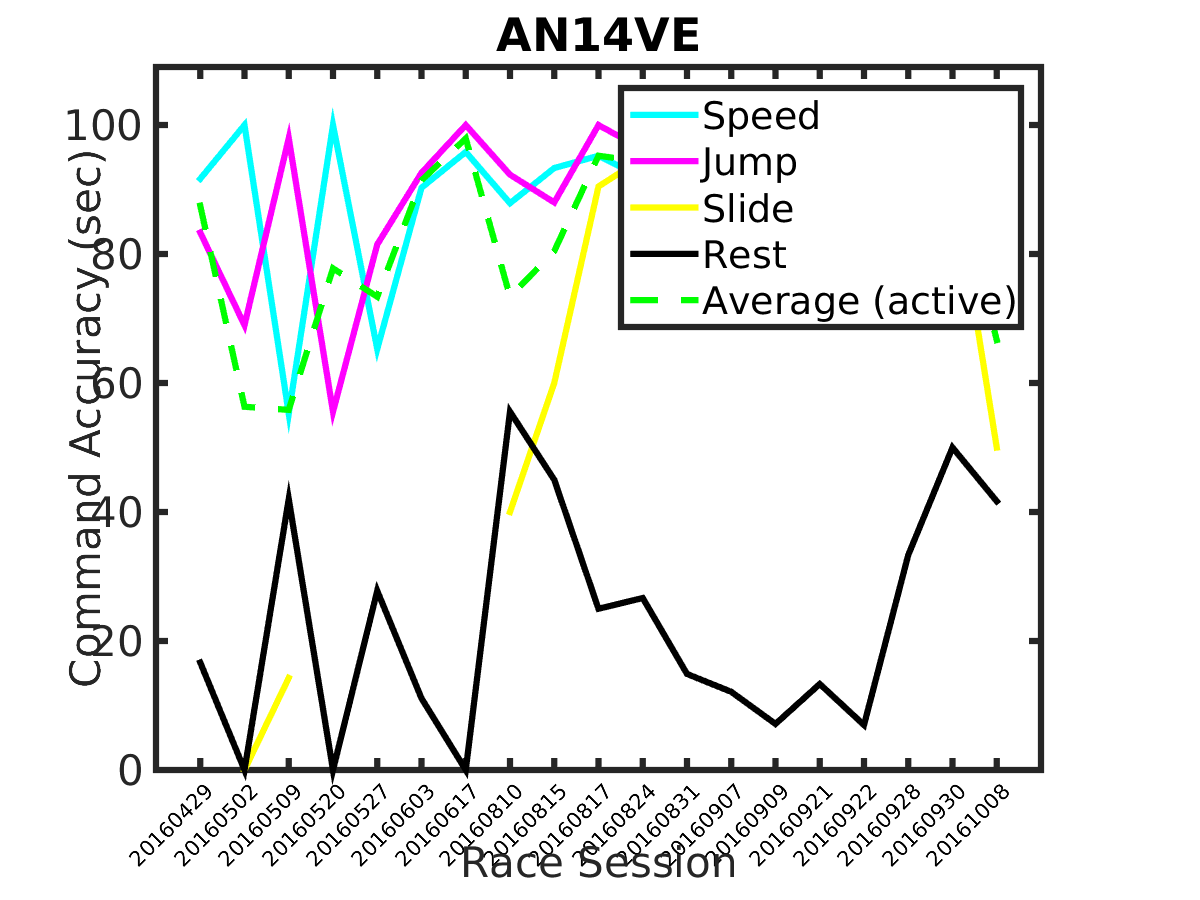
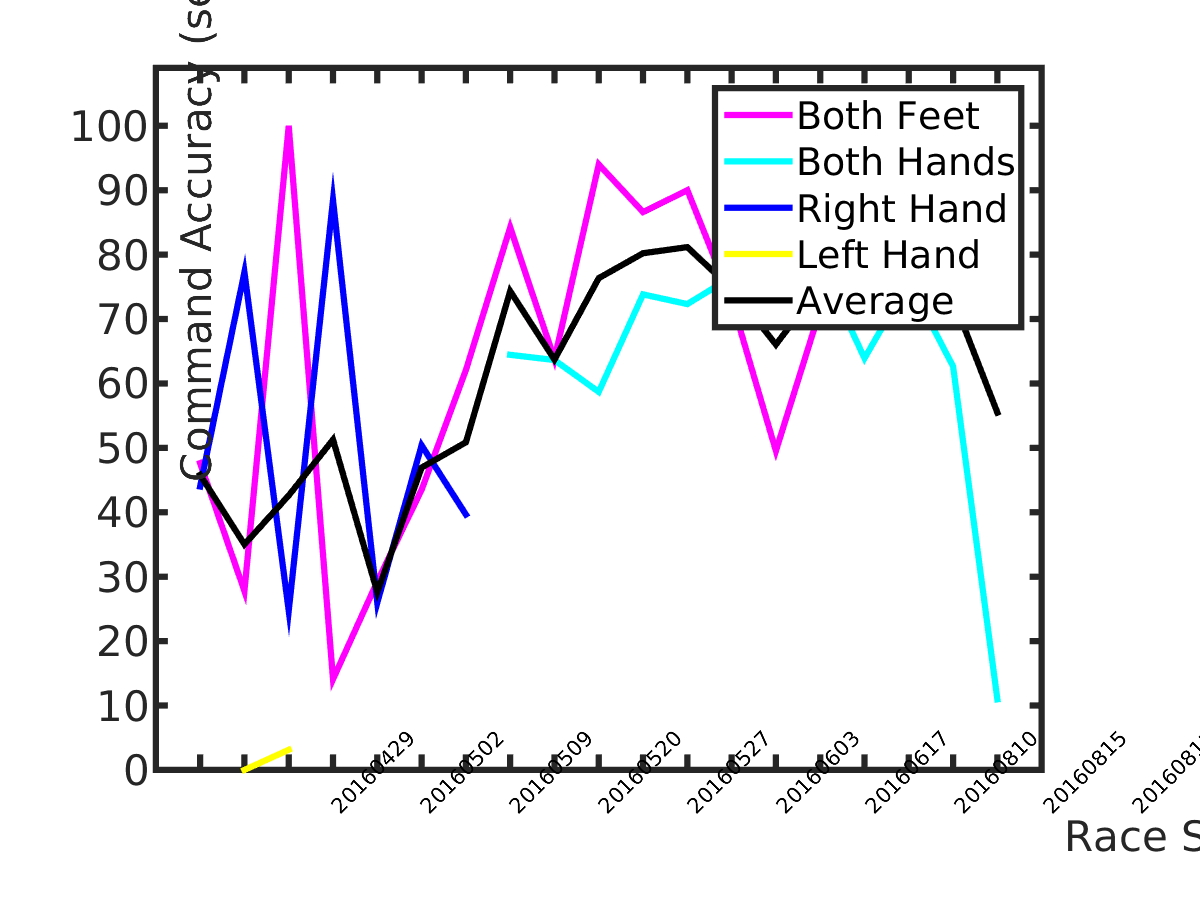
Simis finished command accuracy (at last)

diff --git a/modules/cnbicyb_commacc_race.m b/modules/cnbicyb_commacc_race.m
@@ -78,48 +78,92 @@ RealComm = CommRL;
 % Case of protocol 5 (mi_cybathlon2), where slide is essentially rest
 IndPad786Prot5 = intersect(find(CommProt==5), find(CommGT==768));
 RealGT(IndPad786Prot5) = 783;
-RealComm(IndPad786Prot5) = 783+hex2dec('6000');
+RealComm(IndPad786Prot5(find(RealComm(IndPad786Prot5)==25344))) = 783+hex2dec('6000');
 
-% Case of protocol 6 (mi_cybathlon3/controller)
 
+% Case of protocol 6 (mi_cybathlon3/controller), where reverse + timeout
+% sends a command
+IndRealComm = find(RealComm~=0);
+Prot = [];
+GT = [];
+PossibleClasses = [771 773];
+for tr=1:length(events.extra.pad.TYP)
+    Prot = events.extra.protocol.TYP(floor((tr-1)/18)+1);
+    BiasedClass = mode(RealComm(IndRealComm(intersect(find(IndRealComm >= events.extra.race.POS(floor((tr-1)/18)+1)),...
+            find(IndRealComm < events.extra.race.POS(floor((tr-1)/18)+1) + ...
+            events.extra.race.DUR(floor((tr-1)/18)+1))))))-hex2dec('6000');
+    BiasClassInd = find(PossibleClasses==BiasedClass);
+    GT = events.extra.pad.TYP(tr);
+    BeginPad = events.extra.pad.POS(tr);
+    if( (Prot==6) && (GT==768) )
+        % Find the indices of commands inside there
+        CommIndInTrial = intersect(find(IndRealComm >= events.extra.pad.POS(tr)),...
+            find(IndRealComm < events.extra.pad.POS(tr) + events.extra.pad.DUR(tr)));
+        if(isempty(CommIndInTrial))
+            continue;
+        end
+        
+        % Find time since immediately previous command
+        TimeFromPrevious = (BeginPad-IndRealComm(CommIndInTrial(1)-1))*0.0625;
+        TypePrevious = RealComm(IndRealComm(CommIndInTrial(1)-1));
+        PreviousInd = find(PossibleClasses==BiasedClass);
+        
+        if(TimeFromPrevious <= 3.0)
+            % If small amount of time has elapsed since the last command
+            % when the pad starts, we can almost safely assume that he was
+            % trying to reach the inverse, so that he can slide.
+            PredictedInd = 3-PreviousInd;
+            PredictedType = PossibleClasses(PredictedInd);
+        else
+            % If too much time has passed, itis most likely they wanted to
+            % deliver their "easy"/biased command first
+            PredictedInd = BiasClassInd;
+            PredictedType = PossibleClasses(BiasClassInd);
+        end
+        
+        for c=1:length(CommIndInTrial)
+            if(CommAll(IndRealComm(CommIndInTrial(c))) == 25344)
+                % Never mind the prediction, if we are lucky and there is a
+                % slide command, we are sure the real command is correct.
+                % So, change the 768 label to the one corresponding to this
+                % command
+                RealGT(IndRealComm(CommIndInTrial(c))) = RealComm(IndRealComm(CommIndInTrial(c)))-hex2dec('6000');
+            else
+                % Change to the predicted one
+                RealGT(IndRealComm(CommIndInTrial(c))) = PredictedType;
+                % Update the predicted to the opposite of this one, now we
+                % can be pretty sure that he simply tried for the inverse
+                IndCurrent = find(PossibleClasses == (RealComm(IndRealComm(CommIndInTrial(c)))-hex2dec('6000')));
+                PredictedInd = 3-IndCurrent;
+                PredictedType = PossibleClasses(PredictedInd);
+            end
+        end        
+    end
+end
+
+% Allrighty, now it is easy to calculate a confusion matrix
+ConfMat = cnbiproc_commacc(RealGT, RealComm, PadTypeId, ones(size(Dk)));
 
 
 %% Compute accuracies per day
-SessionTrialEvents = [];
-MSpeedPadSes = [];
+CommAcc = [];
 for dId = 1:NumDays
-    KeepInd = [];
-    for tr=1:length(TrialEvents.DUR)
-        if(Dk(TrialEvents.POS(tr))==dId)
-            KeepInd = [KeepInd; tr];
-        end
-    end
-    thisSessionTrialEvents.POS = TrialEvents.POS(KeepInd);
-    thisSessionTrialEvents.TYP = TrialEvents.TYP(KeepInd);
-    thisSessionTrialEvents.DUR = TrialEvents.DUR(KeepInd);
-    [TPFPPadSes{dId}, TPFPTaskSes{dId}, SpeedPadSes, SpeedTaskSes] = cnbiproc_commacc(CommLb, thisSessionTrialEvents, PadTypeId, PadTypeLb, PadTypeInd);
-    
-    for t=1:size(TPFPPad,1)
-        AccPad(t,dId) = TPFPPadSes{dId}(t,1);
-    end
-    for t=1:size(TPFPTask,1)
-        AccTask(t,dId) = TPFPTaskSes{dId}(t,1);
-    end
-    
-    MSpeedPadSes(dId,1) = mean(SpeedPadSes{1});
-    SSpeedPadSes(dId,1) = std2(SpeedPadSes{1});
-    MSpeedPadSes(dId,2) = mean(SpeedPadSes{2});
-    SSpeedPadSes(dId,2) = std2(SpeedPadSes{2});
-    MSpeedPadSes(dId,3) = mean(SpeedPadSes{3});
-    SSpeedPadSes(dId,3) = std2(SpeedPadSes{3});
+    UseInd = (Dk==dId);
+    ConfMatSes{dId} = cnbiproc_commacc(RealGT, RealComm, PadTypeId, UseInd);
+    % We are mainly interested in 771 and 773
+    CommAcc(1,dId) = ConfMatSes{dId}(4,4); % 771, feet
+    CommAcc(2,dId) = ConfMatSes{dId}(5,5); % 773, hands
+    CommAcc(3,dId) = ConfMatSes{dId}(3,3); % 770, right hand
+    CommAcc(4,dId) = ConfMatSes{dId}(2,2); % 769, left hand
+    %CommAcc(3,dId) = sum([ ConfMatSes{dId}(3,3) ConfMatSes{dId}(5,5) ]); % 770 or 773
 end
 
 
 %% Plotting
 fig1 = figure;
 cnbifig_set_position(fig1, 'All');
-plot(1:NumDays,AccPad(1,:),'c',1:NumDays,AccPad(2,:),'m',1:NumDays,AccPad(3,:),'y',1:NumDays,AccPad(4,:),'k',1:NumDays,nanmean(AccPad(1:3,:)),'--g','LineWidth',3);
-legend({'Speed','Jump','Slide','Rest','Average (active)'});
+plot(1:NumDays,CommAcc(1,:),'m',1:NumDays,CommAcc(2,:),'c',1:NumDays,CommAcc(3,:),'b',1:NumDays,CommAcc(4,:),'y',1:NumDays,nanmean(CommAcc,1),'k','LineWidth',3);
+legend({'Both Feet','Both Hands','Right Hand','Left Hand','Average'});
 xlabel('Race Session','FontSize',20,'LineWidth',3);
 ylabel('Command Accuracy (sec)','FontSize',20,'LineWidth',3);
 title(subject);
@@ -130,23 +174,3 @@ set(gca,'XTickLabel',Dl);
 xticklabel_rotate([],45,[])
 
 cnbifig_export(fig1, [figuredir '/' subject '.commacc.' modality '.png'], '-png');
-
-
-fig2 = figure;
-cnbifig_set_position(fig2, 'All');
-plot(1:NumDays,MSpeedPadSes(:,1),'c',1:NumDays,MSpeedPadSes(:,2),'m',1:NumDays,MSpeedPadSes(:,3),'y','LineWidth',3, 'MarkerSize',10,'LineWidth',3);
-legend({'Speed','Jump','Slide'});
-hold on;
-shadedErrorBar(1:NumDays,MSpeedPadSes(:,1),SSpeedPadSes(:,1),'*c',1);
-shadedErrorBar(1:NumDays,MSpeedPadSes(:,2),SSpeedPadSes(:,2),'*m',1);
-shadedErrorBar(1:NumDays,MSpeedPadSes(:,3),SSpeedPadSes(:,3),'*y',1);
-hold off;
-xlabel('Race Session','FontSize',20,'LineWidth',3);
-ylabel('Average Command Delivery Time (sec)','FontSize',20,'LineWidth',3);
-title(subject);
-axis([1 max(Dk) 0 11]);
-set(gca,'FontSize',20,'LineWidth',3);
-set(gca,'XTick',unique(Dk));
-set(gca,'XTickLabel',Dl);
-xticklabel_rotate([],45,[])
-cnbifig_export(fig2, [figuredir '/' subject '.commtime.' modality '.png'], '-png');

diff --git a/modules/cnbicyb_padacc_race.m b/modules/cnbicyb_padacc_race.m
@@ -60,7 +60,7 @@ for dId = 1:NumDays
     thisSessionTrialEvents.POS = TrialEvents.POS(KeepInd);
     thisSessionTrialEvents.TYP = TrialEvents.TYP(KeepInd);
     thisSessionTrialEvents.DUR = TrialEvents.DUR(KeepInd);
-    [TPFPPadSes{dId}, TPFPTaskSes{dId}, SpeedPadSes, SpeedTaskSes] = cnbiproc_commacc(CommLb, thisSessionTrialEvents, PadTypeId, PadTypeLb, PadTypeInd);
+    [TPFPPadSes{dId}, TPFPTaskSes{dId}, SpeedPadSes, SpeedTaskSes] = cnbiproc_padacc(CommLb, thisSessionTrialEvents, PadTypeId, PadTypeLb, PadTypeInd);
     
     for t=1:size(TPFPPad,1)
         AccPad(t,dId) = TPFPPadSes{dId}(t,1);
@@ -92,7 +92,7 @@ set(gca,'XTick',unique(Dk));
 set(gca,'XTickLabel',Dl);
 xticklabel_rotate([],45,[])
 
-cnbifig_export(fig1, [figuredir '/' subject '.commacc.' modality '.png'], '-png');
+cnbifig_export(fig1, [figuredir '/' subject '.padacc.' modality '.png'], '-png');
 
 
 fig2 = figure;
@@ -112,4 +112,4 @@ set(gca,'FontSize',20,'LineWidth',3);
 set(gca,'XTick',unique(Dk));
 set(gca,'XTickLabel',Dl);
 xticklabel_rotate([],45,[])
-cnbifig_export(fig2, [figuredir '/' subject '.commtime.' modality '.png'], '-png');
+cnbifig_export(fig2, [figuredir '/' subject '.padtime.' modality '.png'], '-png');

diff --git a/cnbicyb_processing_spectrogram.m b/cnbicyb_processing_spectrogram.m
@@ -1,16 +1,16 @@
 clearvars; clc;
 
-subject = 'MA25VE';
-% subject = 'AN14VE';
+%subject = 'MA25VE';
+subject = 'AN14VE';
 
-identifiers = {'.*line.mi.', '.gdf'};
-% identifiers = {'.race.mi.',  '.mat'};
+%identifiers = {'.*line.mi.', '.gdf'};
+identifiers = {'.race.mi.',  '.mat'};
 
 pattern     = identifiers{1};
 extension   = identifiers{2};
 experiment  = 'cybathlon';
-datapath    = ['/mnt/data/Research/' experiment '/' subject '/'];
-% datapath    = ['~/Desktop/tst/' subject '/'];
+%datapath    = ['/mnt/data/Research/' experiment '/' subject '/'];
+datapath    = ['~/Desktop/tst/' subject '/'];
 savedir     = '/analysis/';
 
 %% Processing parameters

diff --git a/processing/cnbiproc_commacc.m b/processing/cnbiproc_commacc.m
@@ -1,2 +1,7 @@
-[CommAcc] = cnbiproc_commacc(CommRL, CommAll, TrialEvents, events, PadTypeId, PadTypeLb, PadTypeInd)
+function ConfMat = cnbiproc_commacc(RealGT, RealComm, PadTypeId, UseInd)
 
+for gt=1:length(PadTypeId)
+    for fc=1:length(PadTypeId)
+        ConfMat(gt,fc) = 100* sum(RealGT==PadTypeId(gt) & RealComm==(PadTypeId(fc)+hex2dec('6000')) & UseInd)/sum(RealGT==PadTypeId(gt) & UseInd);
+    end
+end

diff --git a/cnbicyb_race_syncronize_log.m b/cnbicyb_race_syncronize_log.m
@@ -1,10 +1,12 @@
 clearvars; clc;
 
 subject = 'AN14VE';
+%subject = 'MA25VE';
 
 
 experiment  = 'cybathlon';
-datapath    = ['/mnt/data/Research/' experiment '/' subject '/'];
+%datapath    = ['/mnt/data/Research/' experiment '/' subject '/'];
+datapath    = ['~/Desktop/tst/' subject '/'];
 targetpath  = [datapath '/' subject '_racemat/'];
 
 %% Sync race and gdf
